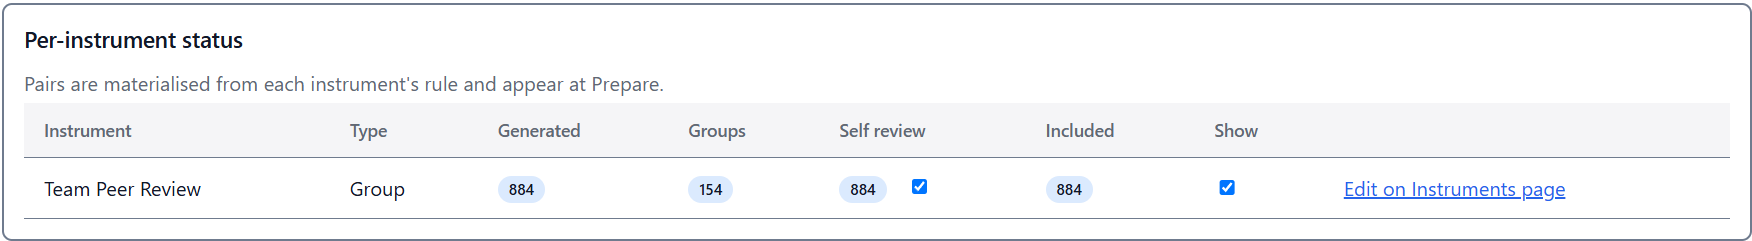
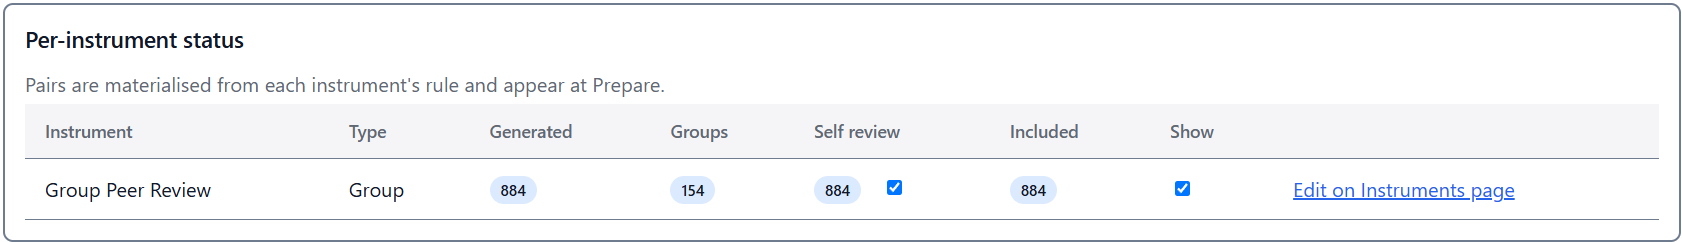
The Guide's Assignments capture re-shot — one two-state pair closed
Dev-slot review of the Guide, 2026-09-20. 19Q Item 5 landed the author's
capture set with four pairs whose light and dark halves are different
app states, accepted as supplied under its open question 4. One of the
four is the one a reader actually notices: `assignments-page` named the
instrument **Team Peer Review** in light and **Group Peer Review** in
dark, so pressing the theme toggle appeared to rename the instrument.

The author re-shot it. `Guide_v3b.docx` is v3a with exactly that pair
replaced — hashed all 34 media files, 32 byte-identical, image23/24
changed — and both halves were opened and read rather than taken from
their position in the document. Both now show `Group Peer Review`, and
are otherwise the same card: Group, 884 generated, 154 groups, 884 self
review, 884 included, both checkboxes ticked.

1752/1753px → **1682/1683px**, which keeps the pair in the wide family
and within `test_a_pair_is_shot_at_one_scale`'s tolerance, so the figure
keeps its class.

The alt text names the instrument again. Rung 1 of 19Q.5 had genericised
it to "the session's single group instrument" precisely because the two
halves disagreed and one alt text has to be true of both; with a
matching pair that workaround is no longer earning anything.

**Three two-state pairs remain** and stay as supplied: `invitations-page`
(`0/6` against `0/1`), `extract-data-page` (`SELF-REVIEW: INCLUDE`
against `BOTH`) and `roster-card-locked` (an empty roster against a
[…]

diff --git a/app/web/templates/guide.html b/app/web/templates/guide.html
@@ -422,13 +422,13 @@
       <img src="/static/guide/assignments-page.png"
            data-theme-variant="light" loading="lazy"
            alt="The Assignments page's Per-instrument status card: one row for the
-                session's single group instrument showing 884 generated pairs across
-                154 groups, with the self-review and show checkboxes both ticked.">
+                Group Peer Review instrument showing 884 generated pairs across 154
+                groups, with the self-review and show checkboxes both ticked.">
       <img src="/static/guide/assignments-page-dark.png"
            data-theme-variant="dark" loading="lazy"
            alt="The Assignments page's Per-instrument status card: one row for the
-                session's single group instrument showing 884 generated pairs across
-                154 groups, with the self-review and show checkboxes both ticked.">
+                Group Peer Review instrument showing 884 generated pairs across 154
+                groups, with the self-review and show checkboxes both ticked.">
     </figure>
     <p>
       To check what a reviewer will see on their side, go to the

diff --git a/docs/status.md b/docs/status.md
@@ -295,6 +295,7 @@ For the full long-term plan see
 
 | Date | Milestone |
 |---|---|
+| 2026-09-20 | **The Guide's Assignments capture re-shot — one of the four two-state pairs closed** (one PR). 19Q Item 5 landed the author's capture set with four pairs whose light and dark halves are different app states, accepted as supplied under its open question 4. Dev-slot review of the Guide caught the one that shows: `assignments-page` named the instrument *Team Peer Review* in light and *Group Peer Review* in dark, so the theme toggle appeared to rename it. The author re-shot it (`Guide_v3b.docx`, which is v3a with exactly that pair replaced — verified by hashing all 34 files, 32 identical). Both halves read `Group Peer Review` now, 1682/1683px, so the pair check holds, and the alt text names the instrument again rather than working around it. **Three two-state pairs remain** — `invitations-page` (`0/6` against `0/1`), `extract-data-page` (`SELF-REVIEW: INCLUDE` against `BOTH`) and `roster-card-locked` (an empty roster against a populated one) — none of which renames anything, and all of which `spec/ui_elements.md`'s `.guide-figure` contract now warns no test can see. |
 | 2026-09-20 | **Segment 19O Item 7 entry 16 — the rename that swept the templates and missed the specs** (one PR; register at `guide/segment_19O_rosters_and_instruments.md`). Entry 15 renamed the Sessions lobby's *Search card* to **Filter**, because the control hides rows already rendered and never was a search. It swept the two lobby templates and `spec/sessions_overview.md` and stopped there. 19Q.5's cold read found the leftovers by noticing the Guide's new alt text disagreeing with them. **The entry's own count was wrong twice**: three files and four lines, taken from the report that found it rather than measured — the re-grep says **five** live lines across four files, including a `sessions_list.html` comment nobody had listed, and a sixth in `docs/status_history.md` that my own search hid behind a `grep -v guide/archive/` filter. All fixed; three historical references stay, and `docs/status_history.md` takes the file-level escape, its premise being rows kept verbatim. **The durable half is a gate — covering less than a first draft claimed.** `Search card` joins the retired vocabulary in `tests/unit/test_doc_conventions.py`, whose `LIVE_DOCS` is `spec/` + `docs/`: that catches spec and status prose, not the template and test comments that were most of the fix, and widening it is a bigger change than this entry. **And the first draft matched the literal string**, so it passed over `spec/rehydrate.md`'s "the search card's" and `docs/status.md`'s "search-card" — the gate reproducing, inside an hour, the miss it was written to prevent (caught by Codex on #2507). It matches `search[-\s]card` case-insensitively now, which found three more live lines, two in `tests/`, and a module docstring. The pattern is knowingly ambiguous: the roster and operations pages put their real search in a card, so the day a spec names one correctly this fires on a true line and the answer is the line escape, not a narrower regex. Mutation-checked either way. | <!-- retired-term-ok -->
 | 2026-09-19 | **Segment 19Q Item 5 closed — the author's capture set, and the pairs that were two screens** (two rungs, PRs #2491 → #2492; Item 5 closes segment 19Q, so the plan moves to `guide/archive/`). The author delivered a replacement screencap set as a captionless `.docx`, grown twice mid-item from 12 pairs to 17. **19 committed pairs → 17**: four re-supplied byte-identical, eleven replaced like-for-like, two renamed because the states changed — `roster-upload-card` and `reviewer-tag-labels` become `roster-card-locked` and `roster-card-unlocked` around the Unlock panel — and two retired, `create-session-optional-tabs` absorbed into a quick-setup capture that carries both cards, `workflow-activated` dropped because its committed shot still showed the **Create invites** button 19Q Item 2 removed. Prose followed the pictures, not the reverse (the author's rule): the Reviewers section rewritten around Unlock, **Email addresses** promoted to its own `<h3>`. **The item's real lesson is what no gate can see.** `test_guide_screencaps.py` checks that a pair's two files exist, match in scale, sit in one `<figure>` and carry one `alt` — and can say nothing about whether the two *pictures* are the same screen. Four v3a pairs are not: `assignments-page` renames its instrument between themes, `invitations-page` reads `0/6` against `0/1`, `extract-data-page` `SELF-REVIEW: INCLUDE` against `BOTH`, `roster-card-locked` an empty roster against a populated one. Found by two cold reads (Codex on rung 1, `diff-reviewer` on the item), never by a test; the author accepted the set as supplied, so the alt texts name what both halves share. **Seven alt texts were false after a swap** and every one of them passed every gate: the length check and the two-halves-agree check are both satisfied by an alt that describes the wrong picture. `spec/ui_elements.md` now says so where the `.guide-figure` contract lives. Two claims in the item's own commit bodies were wrong the same way — a narrow-family count and a rung's totals stated as the item's — both caught by measuring rather than reading, and corrected in `Status`. |
 | 2026-09-19 | **Segment 19O Item 7 entry 15 — the lobby's "search box" is a filter, and there were two of it** (three rungs, PRs #2487 → #2488 → #2489 and the close; register at `guide/segment_19O_rosters_and_instruments.md`). The author asked why the search box had no search button. It had none because it is **not a search box**: the Session Lobby's control hides rows already rendered, live on every keystroke, and never queries or navigates. The Archived page carried a copy. **Author's ruling: it is a filter, name it one, fold the Archive in**, plus typeahead over name, code and tag. The ruling dissolves the question rather than answering it — a live filter has nothing to submit, so the missing button was correct and the `Cancel` beside it was the odd control; it is `Clear` now, in a card headed `Filter`, on both pages. **The app already had the vocabulary backwards the other way**: the seven roster and operations boxes are server-side filters labelled *Search*, and `session_reviewers.html:771` manages both readings in one element — a `<label class="filter-search">` wrapping the copy `Search:` and a `Search` submit button. **Matching is per column now**, the rule `spec/setup_pages.md` states for those seven: substring on name and code, **whole value** on tags. **The two copies became one** — `rrwSessionFilterMatches` in `base.html`, beside the sort primitive the same two pages already share. A first pass made the copies *identical* instead, which the cold read named as how the fourth drift starts, the entry's own argument for folding the Archive in being that two copies had already drifted three ways. **Two claims measured false, both the agent's, both recorded rather than dropped.** The *cross-column false positive does not reproduce*: driving the filter in Chromium and then mutating the matching back showed the check written to prove it passing against the old code too — `textContent` carries the markup's indentation, so the haystack read `"\n                Spring Review\n               2026-A"` and nothing typable bridged that gap. Per-column matching shipped anyway, on the reasons that survive: it is the documented rule, and it stops the behaviour depending on template whitespace. And the *session cap halved a session*: names and codes were merged and sliced, so 150 sessions offered 150 names and 50 codes — the rest findable by one spelling of their identity and not the other, while the docstring claimed the opposite. The **tag** defect was real and is fixed: `team a` no longer drags in `team a2`. **The gap under all of it was that page JS had no test but `node --check`** — `tests/integration/test_session_filter_rule.py` now *executes* the rule under the node CI already runs, and writing it immediately found a hidden precondition (the function assumed a pre-lowercased term). The cold read returned **ten findings, nine acted on**; of the rest, the cap test could not tell its own versions apart (`len == 200` holds under any slicing), a tag equal to a name was offered twice, the register still called a settled design question open, and **entry 15 had no `Doc impact` bullets at all**, so the spec sweep existed only in a conversation — the failure mode the register's own preamble describes. Ten Python mutants and an eight-check browser gate, all caught, both proven non-vacuous in both directions; one mutant survived its first run because the cap test fed rows already in name order. Suite 4,457 → **4,486**. **Also audited:** `spec/operator_button_audit.md` gains a §2a for the Archived page, which shipped at 18A Part 3 and had **no section at all** — surfacing that its row expander ships a `Download` button `disabled` unconditionally, a placeholder for an export that does not exist. **Owed a dev-slot look:** the typeahead dropdown while typing, and the lobby's two adjacent `Clear` controls. |
